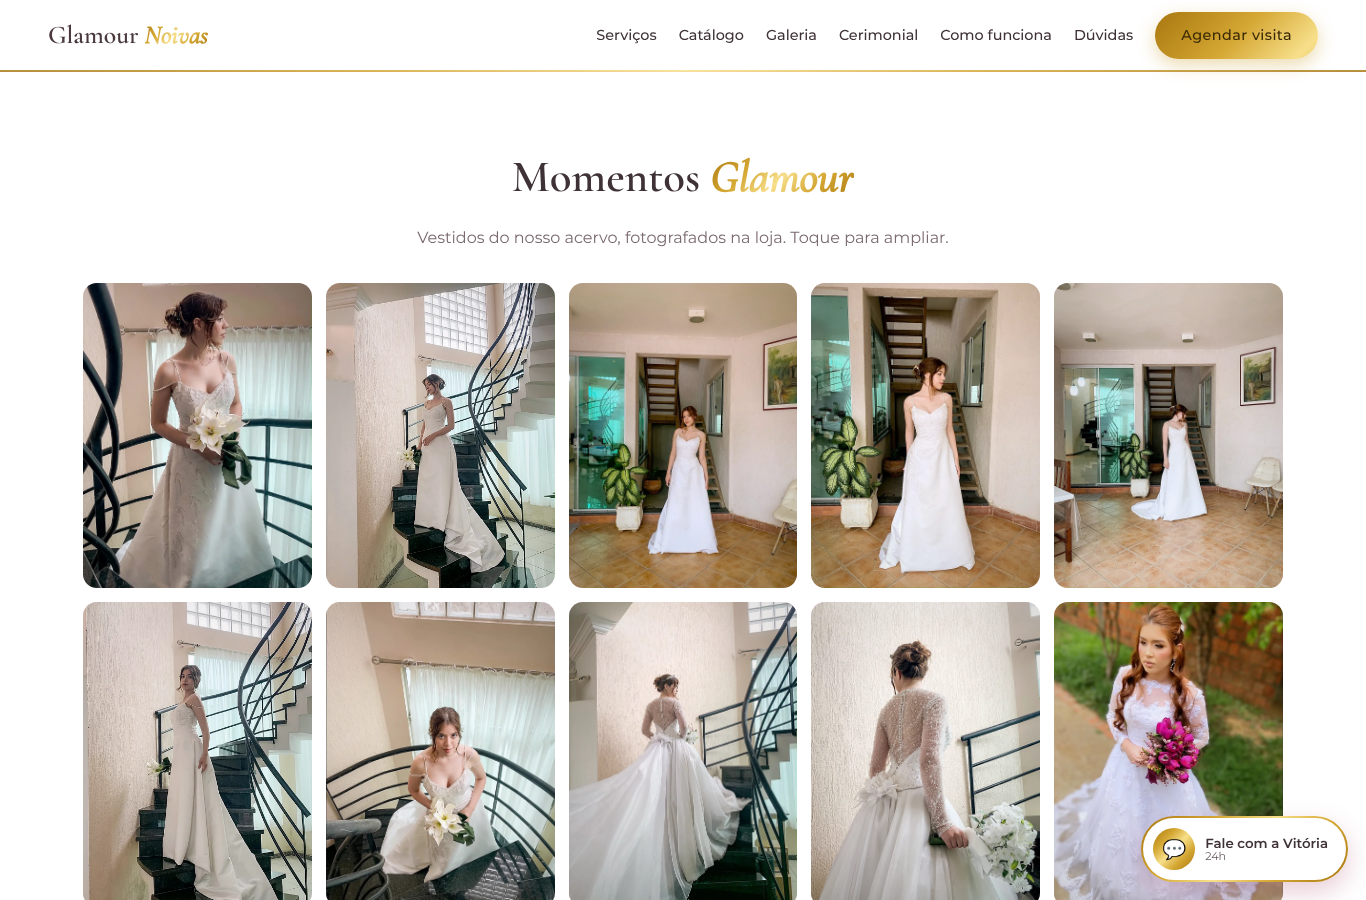
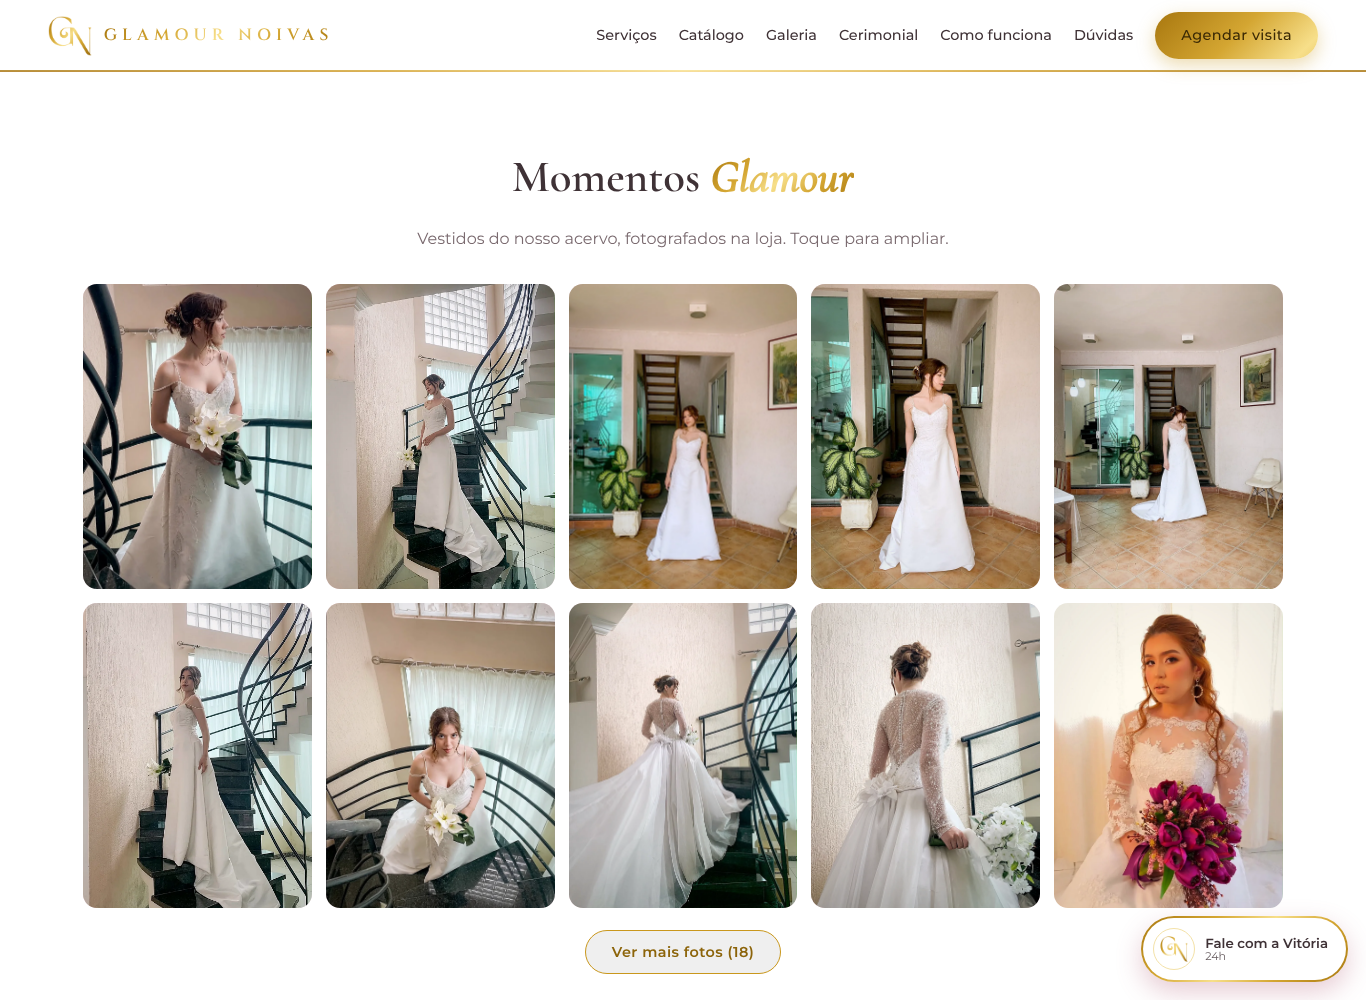
8 vestidos novos do Instagram (6 noivas, 2 debutantes) com fotos limpas e tratadas; galeria com 'ver mais'
Claude-Session: https://claude.ai/code/session_01QKfKEePFHhd3Y5UyopjLB6

diff --git a/public/js/app.js b/public/js/app.js
@@ -102,6 +102,12 @@ function montarGaleria() {
   const sec = $('#galeria');
   if (!fotos.length) { sec.hidden = true; return; }
   $('#galeria-fotos').innerHTML = fotos.map((x, n) => `<button data-n="${n}" aria-label="Ampliar foto do vestido ${esc(x.nome)}"><img src="${esc(x.f)}" alt="Vestido ${esc(x.nome)}" loading="lazy"></button>`).join('');
+  const LIM = 10;
+  if (fotos.length > LIM) {
+    $('#galeria-fotos').classList.add('recolhida');
+    $('#galeria-fotos').insertAdjacentHTML('afterend', `<p style="text-align:center;margin-top:22px"><button class="btn btn-linha" id="ver-mais-fotos">Ver mais fotos (${fotos.length - LIM})</button></p>`);
+    $('#ver-mais-fotos').onclick = e => { $('#galeria-fotos').classList.remove('recolhida'); e.target.parentElement.remove(); };
+  }
   $('#galeria-fotos').addEventListener('click', e => { const b = e.target.closest('button'); if (b) abrirLightbox(fotos.map(x => x.f), +b.dataset.n, null, fotos.map(x => x.nome)); });
 }
 let lb = { lista: [], n: 0, nomes: [] };

diff --git a/public/css/style.css b/public/css/style.css
@@ -294,3 +294,4 @@ input,select,textarea{border:1px solid var(--rose-forte);background:#fff}
 .chat-avatar{width:38px;height:38px;border-radius:50%;box-shadow:0 2px 6px rgba(0,0,0,.1)}
 @media (max-width:420px){.marca.logo span{font-size:.82rem;letter-spacing:.22em}.marca.logo img{height:34px}}
 .hero-foto img{object-position:50% 12%}
+.galeria.recolhida button:nth-child(n+11){display:none}
